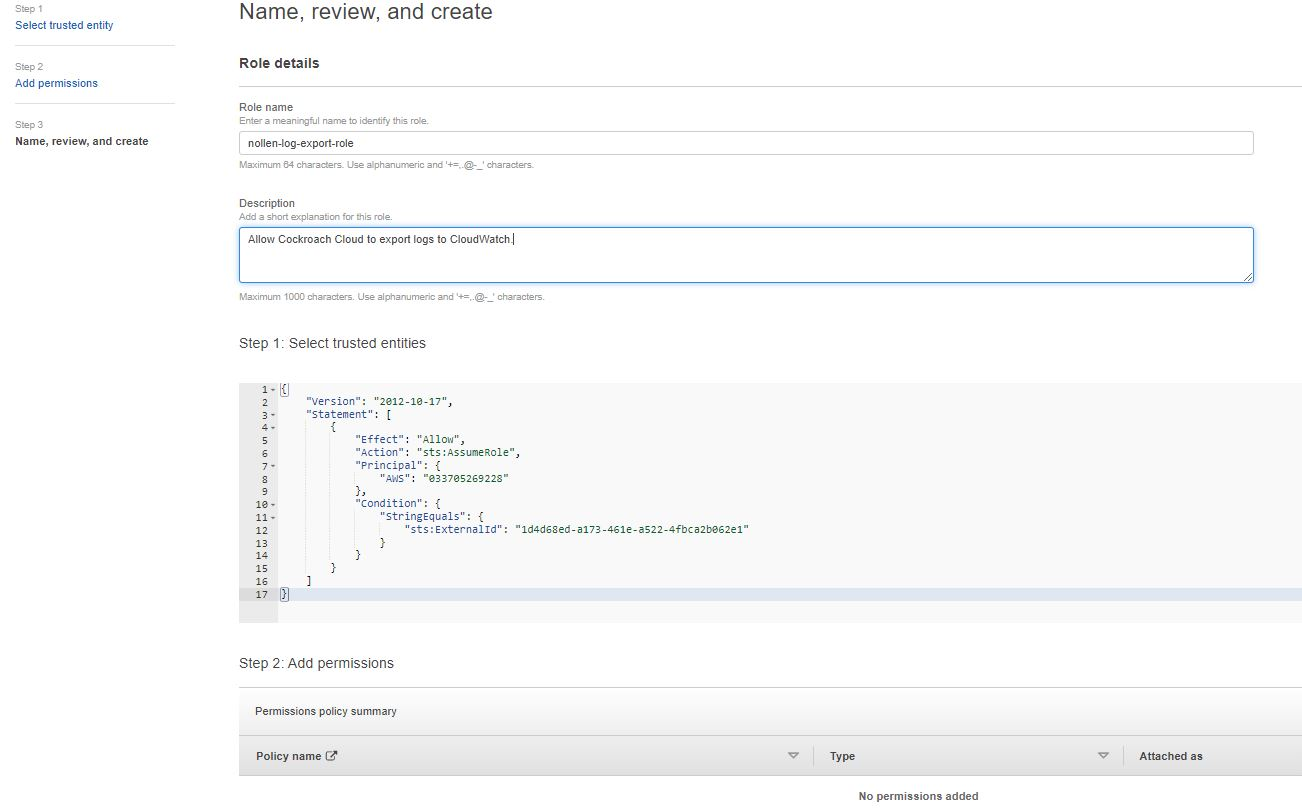
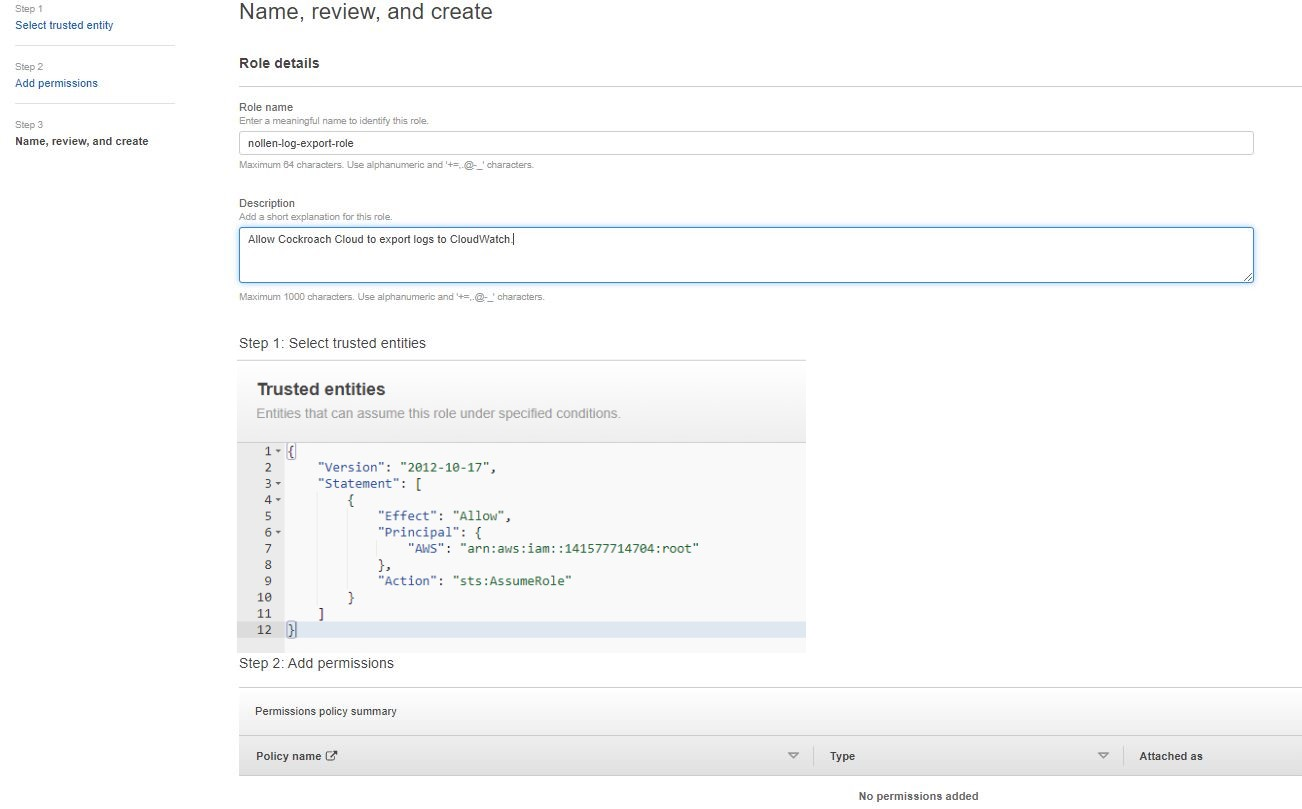
A few changes to obscure sensative info.

Changed region(s): [[0.1843, 0.4635, 1.0, 0.8035]]

diff --git a/README.md b/README.md
@@ -1,6 +1,6 @@
 
 Multi-Region CockroachDB Dedicated Logs in CloudWatch: 
-    A How-To Guide
+    A "how to guide" on setting up log shipping from a CockroachDB Dedicated Multi-Region Cluster to AWS CloudWatch Logs
 
 # Introduction
 An enterprise level organization with strict security protocols may want their logs from a CockroachDB Dedicated cluster, hosted in AWS, to be available in CloudWatch for Security and Information Management (SIEM).  Or there may be a need to proactively monitor logs for errors or events that need to be addressed by the organization.  Whatever the reason, logs from a CockroachDB Dedicated cluster can now be made available in AWS CloudWatch.  Logs are also avialable in Cloud Logging for GCP Hosted Dedicated Clusters.  
@@ -71,13 +71,12 @@ The API will list all of the Clusters in your organization.  Find the cluster na
       "cockroach_version": "v22.1.6",
       "plan": "DEDICATED",
       "cloud_provider": "AWS",
-      "account_id": "033705269228",
+      "account_id": "123456789012",
       "state": "CREATED",
-      "creator_id": "bd445dd7-8ac1-4d75-82b9-6e062d3f1cf4",
       ...
     }
 ```
-In this example, the Cluster Id (id) is `14835272-8c3b-4b7a-ad3a-d4de878f4e34` and the AWS Account Id (account_id) is `033705269228`.  You'll need both of these in the next steps, so keep track of them.
+In this example, the Cluster Id (id) is `14835272-8c3b-4b7a-ad3a-d4de878f4e34` and the AWS Account Id (account_id) is `123456789012`.  You'll need both of these in the next steps, so keep track of them.
 
 # Step 4 - Find Your Cockroach Organization ID
 From the Cockroach Cloud UI, from the "Settings" tab on the left hand column, you'll find the Organizaiton ID; it should be 36 numbers including 4 dashes.  
@@ -88,7 +87,7 @@ Earlier, when we created the Log groups in CloudWatch, we were presented with Cl
 
 In AWS IAM, choose "Policy" from the left hand tabs and "Create Policy".
 
-Copy the JSON below and paste it into the "Create Policy" section in the "JSON" tab.  Replace the 3 ARNs in the example below with the ARN(s) of your CloudWatch Log Groups (we created those in step 1).
+Copy the JSON below and paste it into the "Create Policy" section in the "JSON" tab.  Replace the 3 ARNs of the Resource seciont in the example below with the ARN(s) of your CloudWatch Log Groups (we created those in step 1).
 
 ```
 {
@@ -105,9 +104,9 @@ Copy the JSON below and paste it into the "Create Policy" section in the "JSON" 
             ],
             "Effect": "Allow",
             "Resource": [
-                "arn:aws:logs:us-west-2:541263489771:log-group:/cockroachdb/nollen-cloudwatch-cluster/logs:*",
-                "arn:aws:logs:us-east-1:541263489771:log-group:/cockroachdb/nollen-cloudwatch-cluster/logs:*",
-                "arn:aws:logs:us-east-2:541263489771:log-group:/cockroachdb/nollen-cloudwatch-cluster/logs:*"
+                "arn:aws:logs:us-west-2:123456789012:log-group:/cockroachdb/nollen-cloudwatch-cluster/logs:*",
+                "arn:aws:logs:us-east-1:123456789012:log-group:/cockroachdb/nollen-cloudwatch-cluster/logs:*",
+                "arn:aws:logs:us-east-2:123456789012:log-group:/cockroachdb/nollen-cloudwatch-cluster/logs:*"
             ]
         }
     ]
@@ -124,7 +123,7 @@ In this step, we're going to create an AWS IAM Role that will be used by Cockroa
 In AWS IAM, create a new role.  The key elements are:
 - The "Trusted entity type" is "AWS account"
 - The "Account ID" to supply is the AWS Account ID from step 3 (This is the "account_id")
-- If you wish to include an "External ID" for more security, you can add the Cockroach Organization ID from step 4. </br></br>
+ </br></br>
 
 ![Create Account Role Step 1](Resources/AWS-IAM-Create-Role.JPG)
 </br></br>
@@ -155,13 +154,13 @@ curl --request POST \
 The response I received:
 ```
 {
-  "cluster_id": "14835272-8c3b-4b7a-ad3a-d4de878f4e34",
+  "cluster_id": "{my cluster ID}",
   "status": "ENABLING",
   "user_message": "",
   "spec": {
     "type": "AWS_CLOUDWATCH",
     "log_name": "/cockroachdb/nollen-cloudwatch-cluster/logs",
-    "auth_principal": "arn:aws:iam::541263489771:role/nollen-log-export-role"
+    "auth_principal": "arn:aws:iam::{my account ID}:role/nollen-log-export-role"
   },
   "created_at": "2022-09-13T19:08:21.063388Z",
   "updated_at": "2022-09-13T19:08:21.063388Z"
@@ -178,13 +177,13 @@ curl --request GET \
 When the process is complete the response will look like this:
 ```
 {
-  "cluster_id": "14835272-8c3b-4b7a-ad3a-d4de878f4e34",
+  "cluster_id": "{my cluster ID}",
   "status": "ENABLED",
   "user_message": "",
   "spec": {
     "type": "AWS_CLOUDWATCH",
     "log_name": "/cockroachdb/nollen-cloudwatch-cluster/logs",
-    "auth_principal": "arn:aws:iam::541263489771:role/nollen-log-export-role"
+    "auth_principal": "arn:aws:iam::{my account ID}:role/nollen-log-export-role"
   },
   "created_at": "2022-09-13T19:08:21.063388Z",
   "updated_at": "2022-09-13T19:42:38.924969Z"
@@ -197,6 +196,14 @@ And in CloudWatch Logs you'll be able to operate on the logs in each region:
 ![CloudWatch Log Shipping Complete](Resources/cloud-watch-log-shipping-complete.JPG)
 
 
+# Disable Log Shipping
+If you need to disable log shipping once it has been enabled, use the API:
+
+```
+  curl --request DELETE \
+  --url https://cockroachlabs.cloud/api/v1/clusters/{Cluster ID}/logexport \
+  --header "Authorization: Bearer {Secret Key}"
+```
 
 
 -------------------------------------------------------------
@@ -216,7 +223,7 @@ curl --request GET \
 curl --request POST \
   --url https://cockroachlabs.cloud/api/v1/clusters/14835272-8c3b-4b7a-ad3a-d4de878f4e34/logexport \
   --header "Authorization: Bearer CCDB1_AIYybfcRQhkFsmaHkOQoj2_Png19xaVlLqedBMZdWmIj1RMzwbbQ8sgWLmSgI4W" \
-  --data '{"type": "AWS_CLOUDWATCH", "log_name": "/cockroachdb/nollen-cloudwatch-cluster/logs", "auth_principal": "arn:aws:iam::541263489771:role/nollen-log-export-role"}'
+  --data '{"type": "AWS_CLOUDWATCH", "log_name": "/cockroachdb/nollen-cloudwatch-cluster/logs", "auth_principal": "arn:aws:iam::{my account id}:role/nollen-log-export-role"}'
 
 
 
@@ -243,10 +250,10 @@ curl --request GET \
 ```
 Cloudwatch Log Group
 /cockroachdb/nollen-cloudwatch-cluster/logs
-arn:aws:logs:us-west-2:541263489771:log-group:/cockroachdb/nollen-cloudwatch-cluster/logs:*
+arn:aws:logs:us-west-2:{my account id}:log-group:/cockroachdb/nollen-cloudwatch-cluster/logs:*
 
 Role ARN
-arn:aws:iam::541263489771:role/nollen-log-export-role
+arn:aws:iam::{my account id}:role/nollen-log-export-role
 
 Organization Id
 1d4d68ed-a173-461e-a522-4fbca2b062e1
@@ -275,6 +282,6 @@ curl --request GET \
       "cockroach_version": "v22.1.6",
       "plan": "DEDICATED",
       "cloud_provider": "AWS",
-      "account_id": "033705269228",
+      "account_id": "123456789012",
       "state": "CREATED",
       "creator_id": "bd445dd7-8ac1-4d75-82b9-6e062d3f1cf4",
